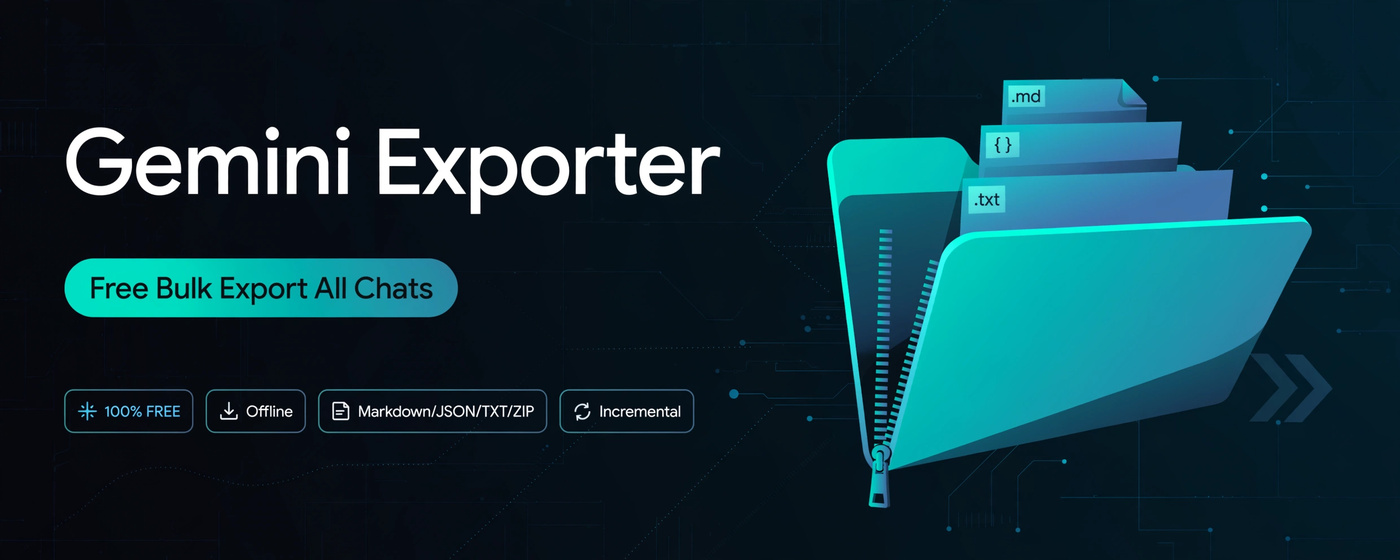
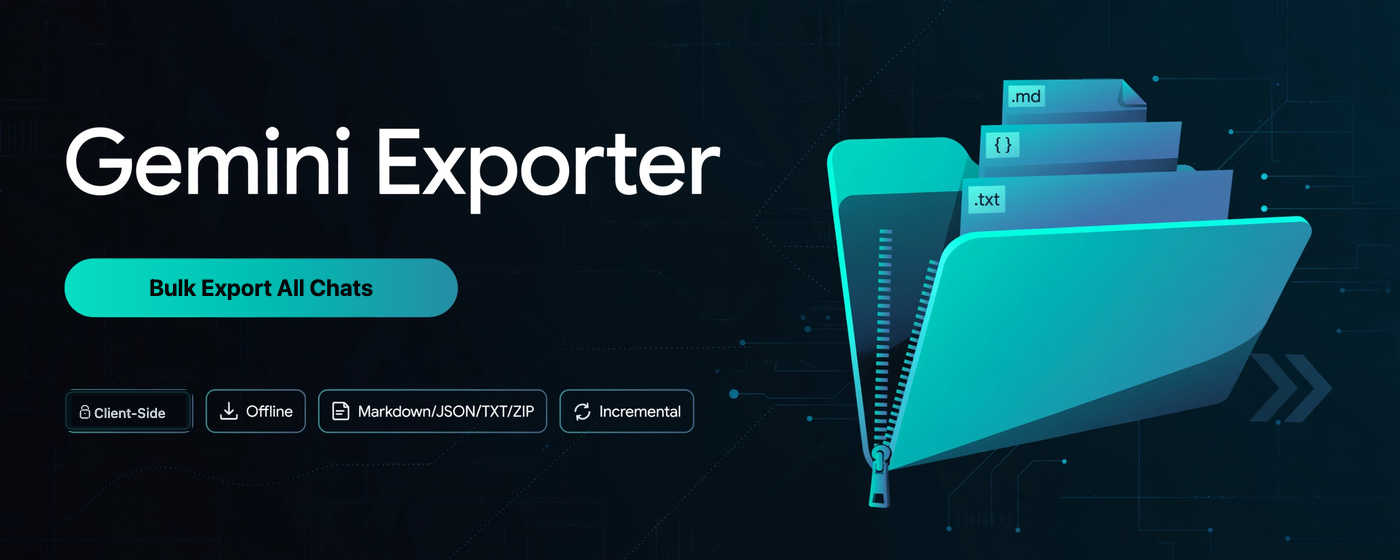
fix(store): rectify metadata and promotional assets to comply with CWS policy (#185)

Changed region(s): [[0.0614, 0.4857, 0.3071, 0.5464], [0.0307, 0.6982, 0.1536, 0.7893]]

diff --git a/CHROMEWEBSTORE.md b/CHROMEWEBSTORE.md
@@ -44,3 +44,12 @@ Chrome Web Store enforces a strict single-purpose policy requiring explicit just
 - **100% Client-Side Execution**: All parsing, image bundling, Markdown generation, and ZIP compression occur purely within the local browser sandbox.
 - **No Remote Telemetry**: Zero analytics, zero third-party tracking, zero external servers.
 - **No Credential Harvesting**: Never reads, stores, or transmits Google account passwords or authentication Cookies.
+
+---
+
+## 🏷 Title & Promotional Assets Policy Compliance (Red Nickel Prevention)
+
+In compliance with Chrome Web Store Developer Program Policies (*Ensuring Responsible Marketing and Monetization - Impersonation and Intellectual Property*):
+- **No Ranking or Status Claims**: The extension name, description, and promotional assets (`store_assets/promo_marquee_1400x560.png`, `store_assets/promo_tile_440x280.png`) must NEVER contain promotional buzzwords, ranking claims, or deceptive status indicators such as `Free`, `100% Free`, `#1`, `Best`, `Top`, `New`, `Recommended`, or `Premium`.
+- **Factual & Feature-Oriented**: Titles and descriptions focus strictly on factual functionality (e.g., `Bulk Export All Chats`, `Client-Side • Unlimited • Offline`).
+
